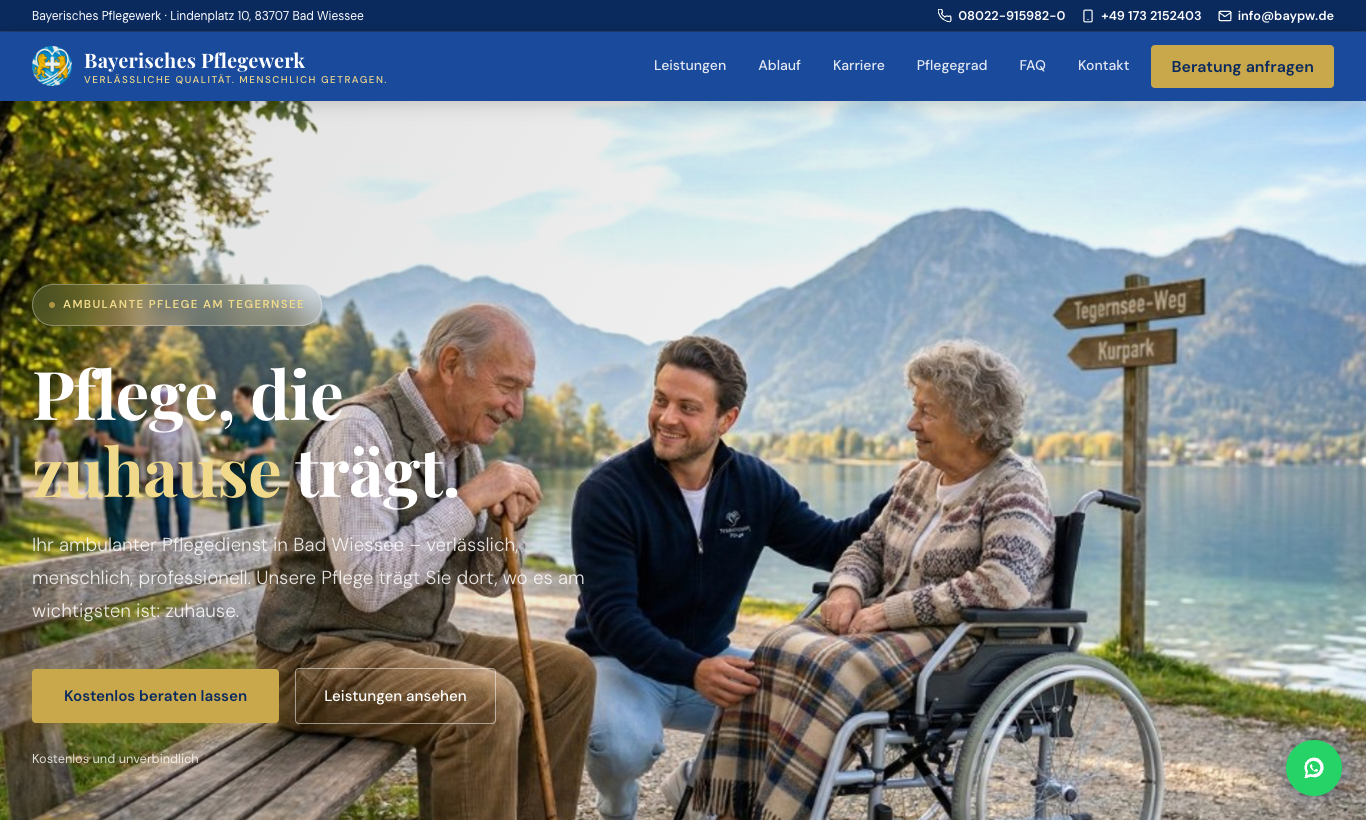
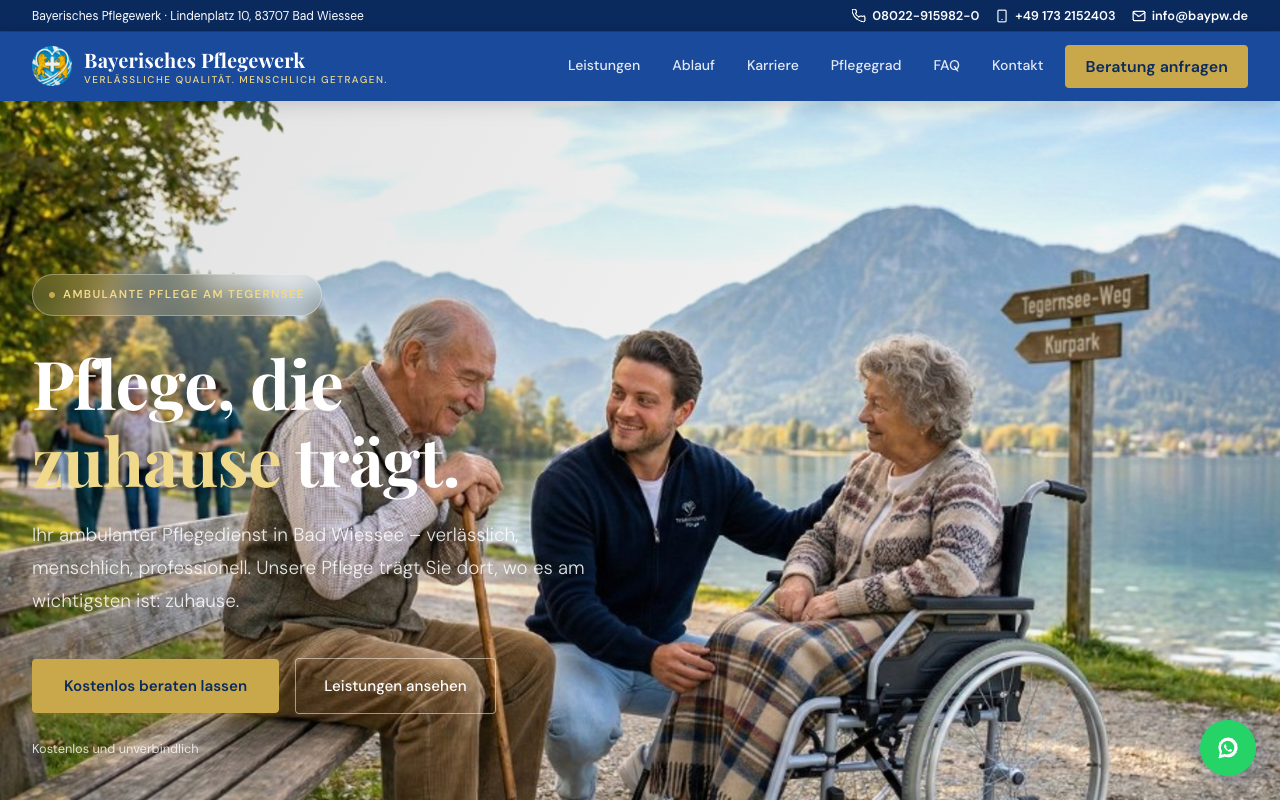
Portfolio kompakter; Screenshots 16:10 (1280×800), Cookies + Shadow-DOM
Made-with: Cursor

diff --git a/index.html b/index.html
@@ -638,7 +638,7 @@ a.portfolio-shot {
   border-radius: 6px;
   overflow: hidden;
   position: relative;
-  box-shadow: 0 16px 48px rgba(0,0,0,0.09);
+  box-shadow: 0 10px 32px rgba(0,0,0,0.07);
 }
 .portfolio-shot img {
   width: 100%;
@@ -656,8 +656,8 @@ a.portfolio-shot {
 .portfolio-shot-cap {
   position: absolute;
   left: 0; right: 0; bottom: 0;
-  padding: 0.55rem 1rem 0.65rem;
-  font-size: 0.68rem;
+  padding: 0.4rem 0.75rem 0.5rem;
+  font-size: 0.62rem;
   font-weight: 600;
   letter-spacing: 0.08em;
   text-transform: uppercase;
@@ -742,8 +742,8 @@ a.portfolio-shot {
   display: flex;
   justify-content: space-between;
   align-items: flex-end;
-  margin-bottom: 4rem;
-  gap: 2rem;
+  margin-bottom: 2.25rem;
+  gap: 1.5rem;
 }
 
 .portfolio-header .text-body {
@@ -754,13 +754,13 @@ a.portfolio-shot {
 .portfolio-grid {
   display: flex;
   flex-direction: column;
-  gap: 4rem;
+  gap: 2.25rem;
 }
 
 .portfolio-item {
   display: grid;
   grid-template-columns: 1.2fr 1fr;
-  gap: 3rem;
+  gap: 1.75rem;
   align-items: center;
 }
 
@@ -771,51 +771,52 @@ a.portfolio-shot {
   direction: ltr;
 }
 
-.portfolio-info { padding: 1rem 0; }
+.portfolio-info { padding: 0.35rem 0; }
 
 .portfolio-tag {
-  font-size: 0.72rem;
+  font-size: 0.68rem;
   font-weight: 500;
   letter-spacing: 0.1em;
   text-transform: uppercase;
   color: var(--accent);
-  margin-bottom: 0.8rem;
+  margin-bottom: 0.45rem;
 }
 
 .portfolio-title {
   font-family: var(--serif);
-  font-size: 1.8rem;
+  font-size: 1.45rem;
   font-weight: 400;
-  margin-bottom: 0.8rem;
+  margin-bottom: 0.45rem;
   color: var(--text);
+  line-height: 1.22;
 }
 
 .portfolio-desc {
-  font-size: 0.95rem;
+  font-size: 0.88rem;
   font-weight: 300;
   color: var(--text-muted);
-  line-height: 1.7;
-  margin-bottom: 1.5rem;
+  line-height: 1.58;
+  margin-bottom: 0.85rem;
 }
 
 .portfolio-result {
   display: inline-flex;
   align-items: center;
   gap: 0.5rem;
-  font-size: 0.78rem;
+  font-size: 0.72rem;
   font-weight: 500;
   color: var(--accent);
   background: var(--accent-light);
-  padding: 0.4rem 1rem;
+  padding: 0.32rem 0.75rem;
   border-radius: 3px;
-  margin-bottom: 1.2rem;
+  margin-bottom: 0.65rem;
 }
 
 .portfolio-link {
   display: inline-flex;
   align-items: center;
   gap: 0.4rem;
-  font-size: 0.82rem;
+  font-size: 0.78rem;
   font-weight: 500;
   color: var(--accent);
   transition: gap 0.3s;
@@ -1614,7 +1615,7 @@ footer a:hover { color: var(--accent); }
 
   .portfolio-item {
     grid-template-columns: 1fr;
-    gap: 2rem;
+    gap: 1.5rem;
   }
   .portfolio-item:nth-child(even) { direction: ltr; }
 
@@ -1819,7 +1820,7 @@ footer a:hover { color: var(--accent); }
 
       <div class="portfolio-item reveal">
         <a href="https://luolou.de" target="_blank" rel="noopener noreferrer" class="portfolio-shot portfolio-shot--luolou">
-          <img src="assets/previews/luolou.png" alt="Screenshot luolou.de — Restaurant Luolou, Kronberg" width="1366" height="820" loading="lazy" decoding="async">
+          <img src="assets/previews/luolou.png" alt="Screenshot luolou.de — Restaurant Luolou, Kronberg" width="1280" height="800" loading="lazy" decoding="async">
           <span class="portfolio-shot-cap">luolou.de · Live</span>
         </a>
         <div class="portfolio-info">
@@ -1833,7 +1834,7 @@ footer a:hover { color: var(--accent); }
 
       <div class="portfolio-item reveal">
         <a href="https://www.delifiona.de/" target="_blank" rel="noopener noreferrer" class="portfolio-shot portfolio-shot--delifiona">
-          <img src="assets/previews/delifiona.png" alt="Screenshot delifiona.de — Deli Fiona, Restaurant &amp; Vinothek Kronberg" width="1366" height="820" loading="lazy" decoding="async">
+          <img src="assets/previews/delifiona.png" alt="Screenshot delifiona.de — Deli Fiona, Restaurant &amp; Vinothek Kronberg" width="1280" height="800" loading="lazy" decoding="async">
           <span class="portfolio-shot-cap">delifiona.de · Live</span>
         </a>
         <div class="portfolio-info">
@@ -1847,7 +1848,7 @@ footer a:hover { color: var(--accent); }
 
       <div class="portfolio-item reveal">
         <a href="https://bevisiblle.de" target="_blank" rel="noopener noreferrer" class="portfolio-shot portfolio-shot--bevis">
-          <img src="assets/previews/bevisiblle.png" alt="Screenshot bevisiblle.de — Job-Netzwerk" width="1366" height="820" loading="lazy" decoding="async">
+          <img src="assets/previews/bevisiblle.png" alt="Screenshot bevisiblle.de — Job-Netzwerk" width="1280" height="800" loading="lazy" decoding="async">
           <span class="portfolio-shot-cap">bevisiblle.de · Live</span>
         </a>
         <div class="portfolio-info">
@@ -1861,7 +1862,7 @@ footer a:hover { color: var(--accent); }
 
       <div class="portfolio-item reveal">
         <a href="https://baypw.de" target="_blank" rel="noopener noreferrer" class="portfolio-shot portfolio-shot--baypw">
-          <img src="assets/previews/baypw.png" alt="Screenshot baypw.de — Bayerisches Pflegewerk" width="1366" height="820" loading="lazy" decoding="async">
+          <img src="assets/previews/baypw.png" alt="Screenshot baypw.de — Bayerisches Pflegewerk" width="1280" height="800" loading="lazy" decoding="async">
           <span class="portfolio-shot-cap">baypw.de · Live</span>
         </a>
         <div class="portfolio-info">
@@ -1875,7 +1876,7 @@ footer a:hover { color: var(--accent); }
 
       <div class="portfolio-item reveal">
         <a href="https://www.gaerte-shk.de/" target="_blank" rel="noopener noreferrer" class="portfolio-shot portfolio-shot--gaerte">
-          <img src="assets/previews/gaerte-shk.png" alt="Screenshot gaerte-shk.de — Gaerte GmbH Sanitär &amp; Heizung, Hamburg" width="1366" height="820" loading="lazy" decoding="async">
+          <img src="assets/previews/gaerte-shk.png" alt="Screenshot gaerte-shk.de — Gaerte GmbH Sanitär &amp; Heizung, Hamburg" width="1280" height="800" loading="lazy" decoding="async">
           <span class="portfolio-shot-cap">gaerte-shk.de · Live</span>
         </a>
         <div class="portfolio-info">
